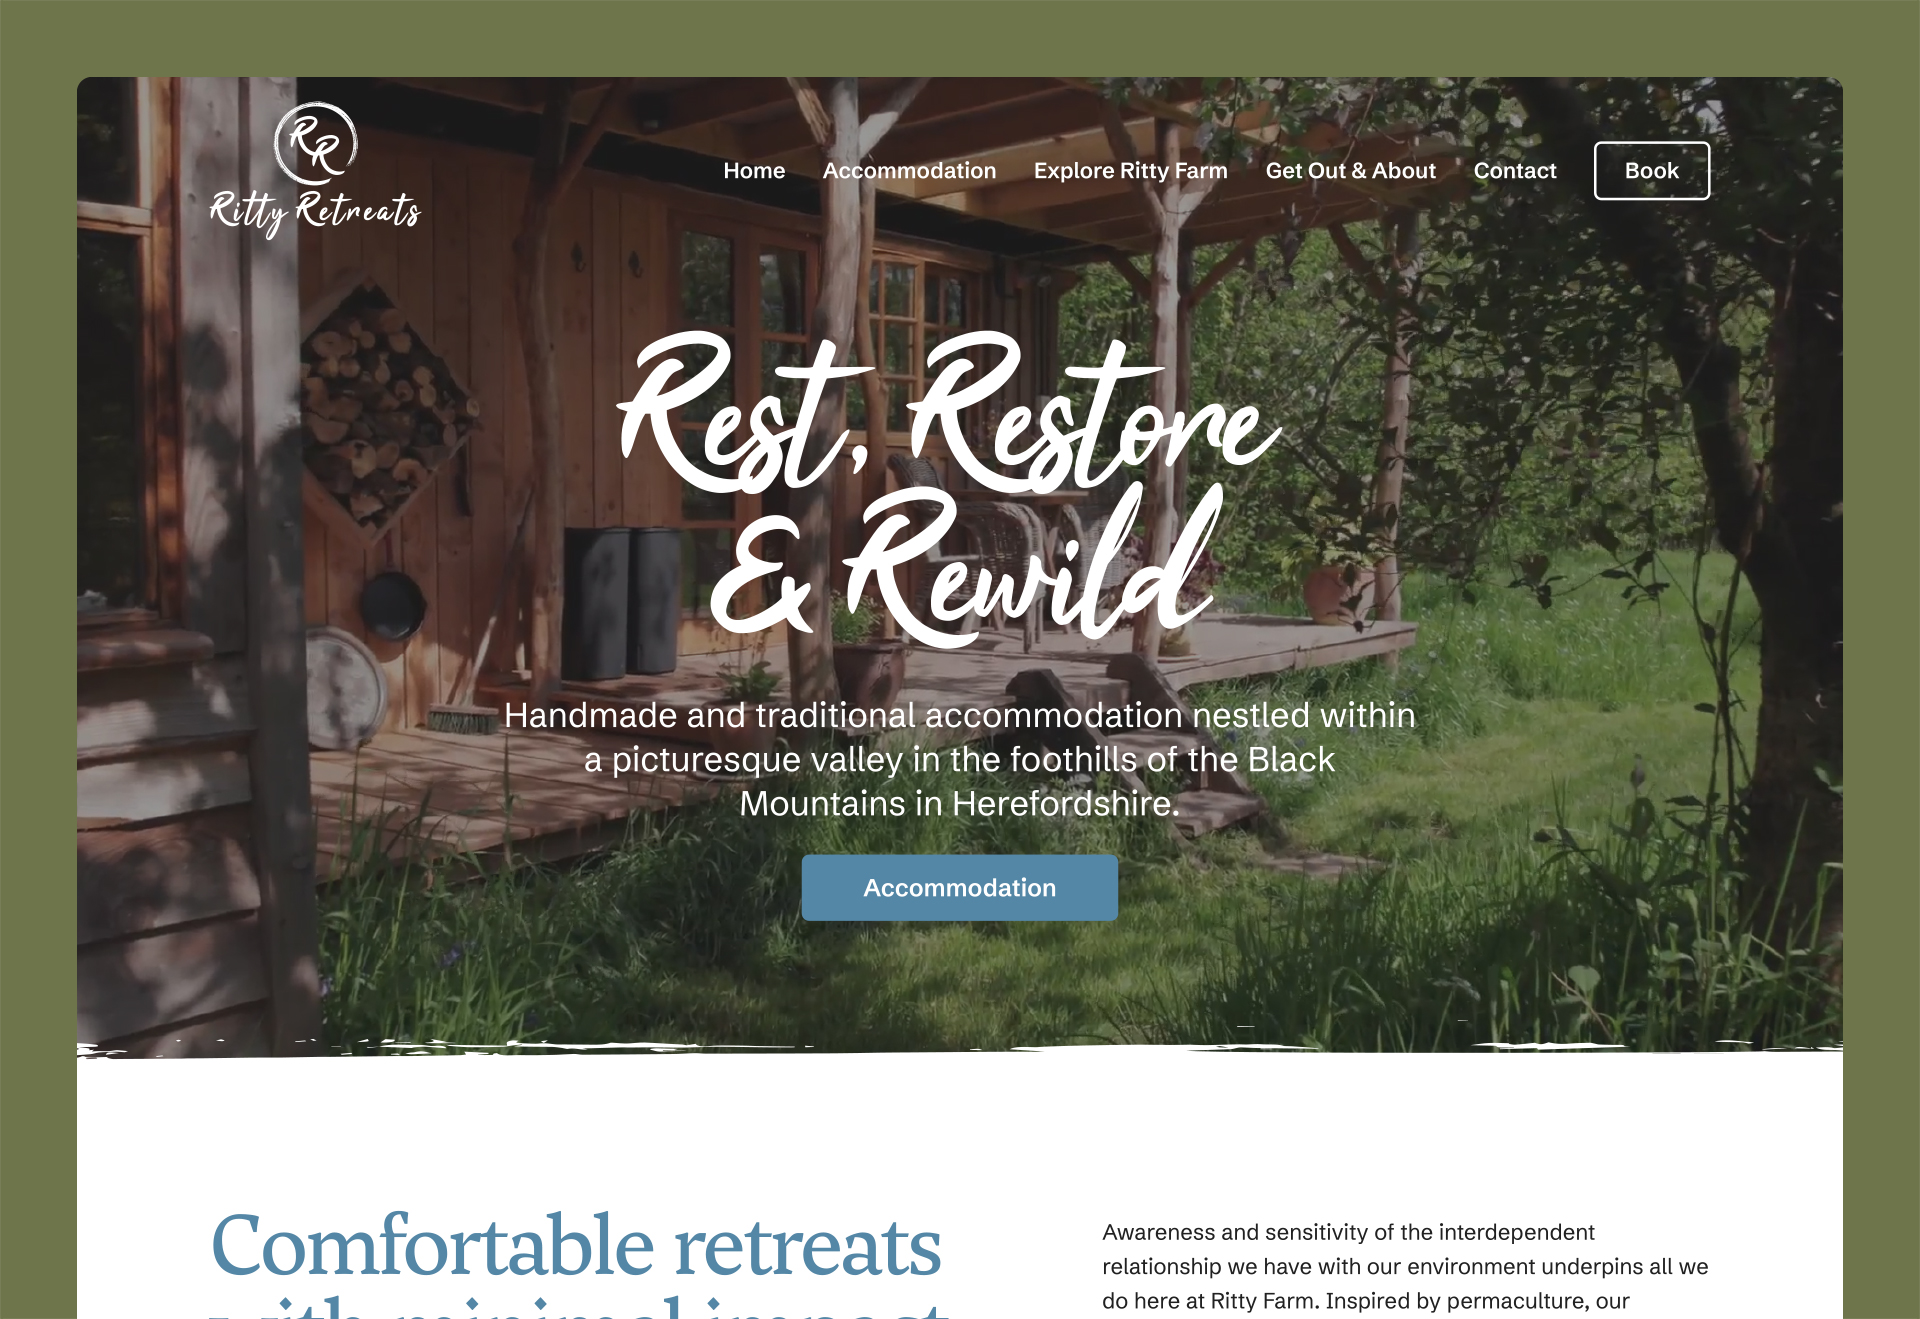
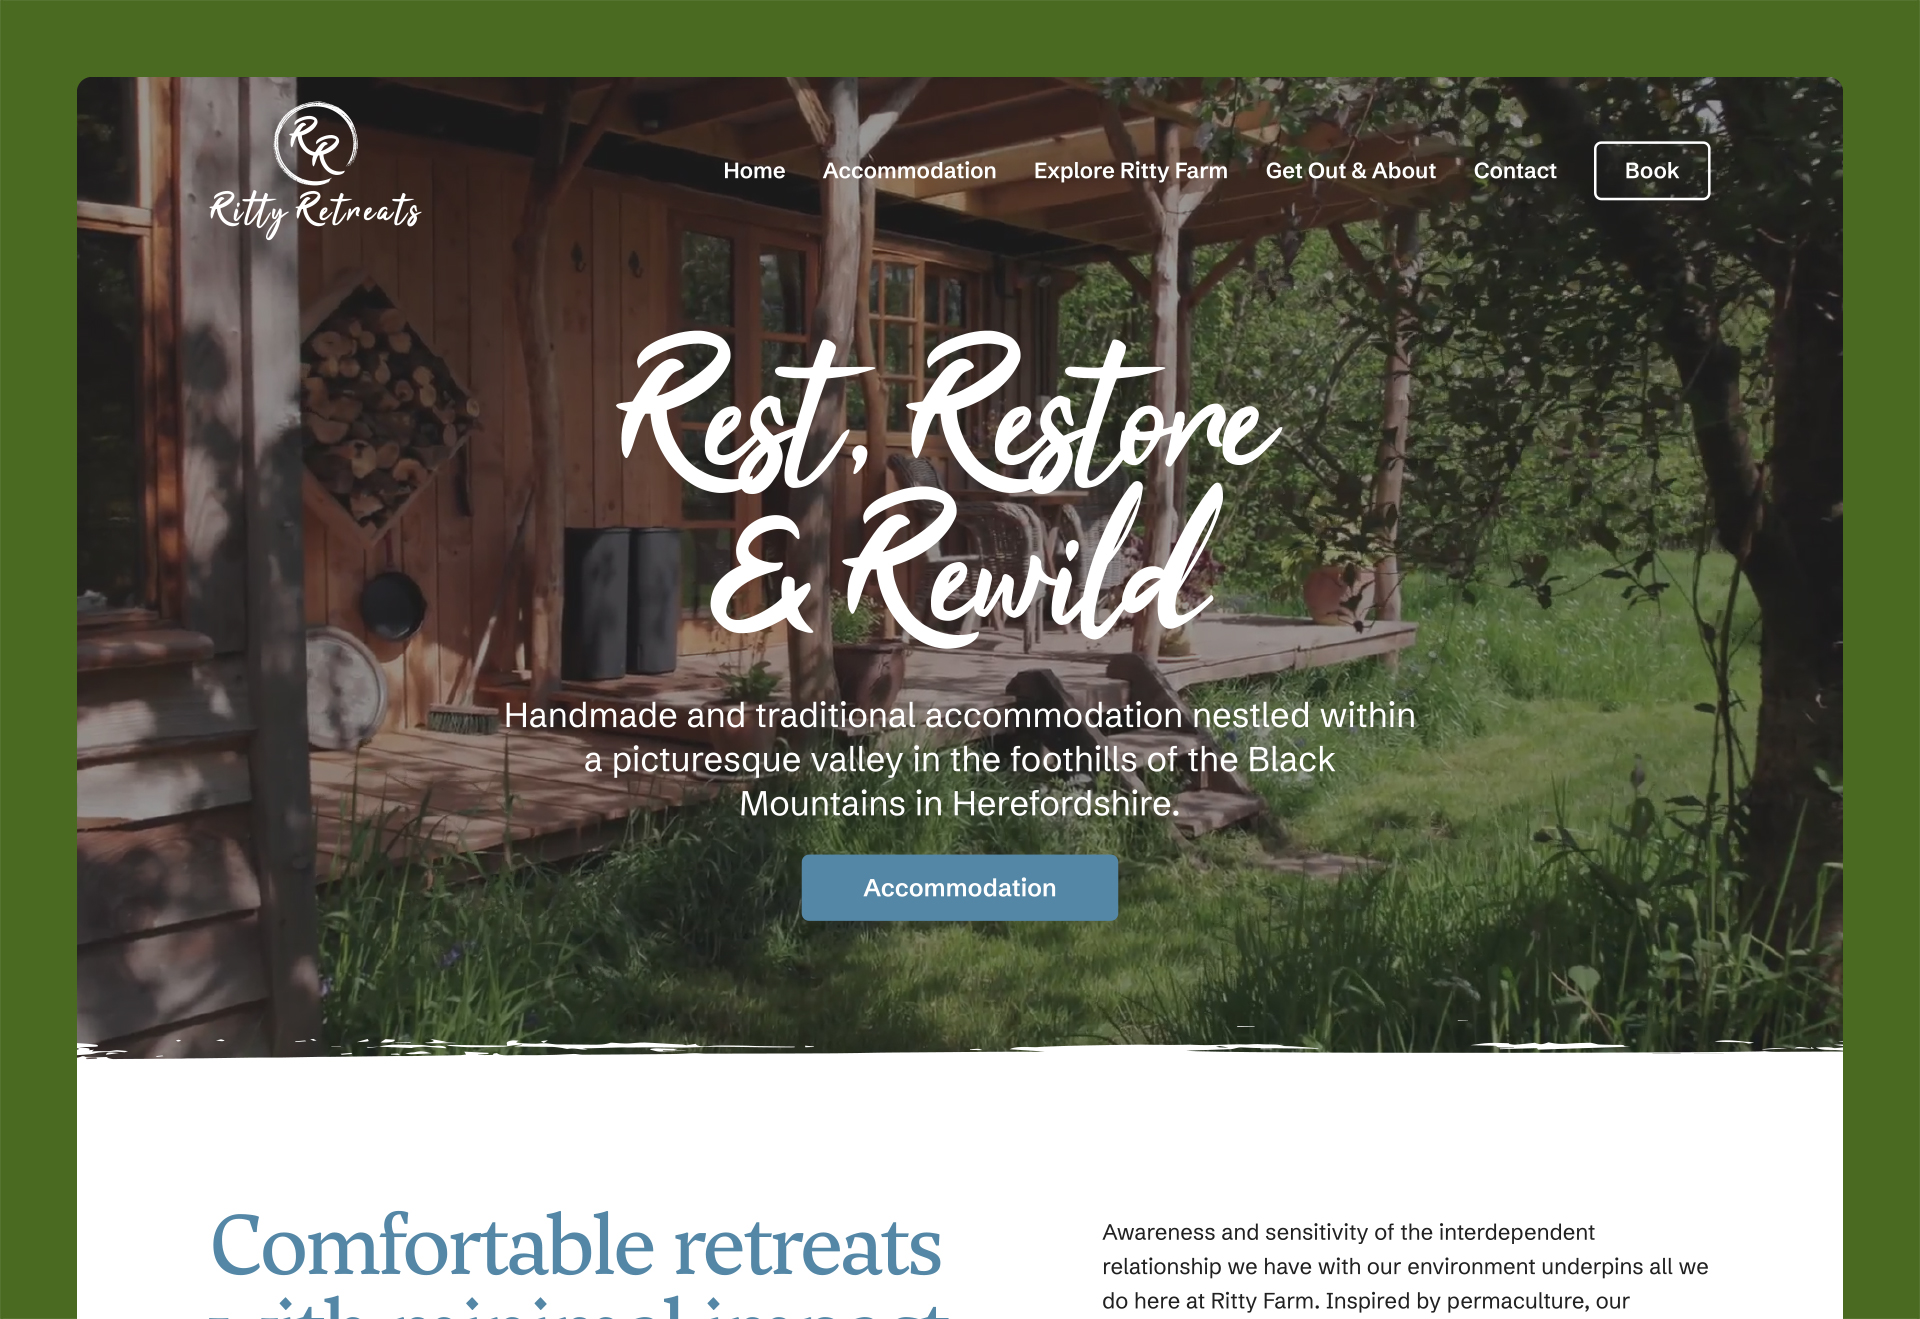
changed ritty bg colour

Changed region(s): [[0.0, 0.0, 1.0, 1.0]]

diff --git a/src/work/items/ritty-retreats.md b/src/work/items/ritty-retreats.md
@@ -35,7 +35,7 @@ projects:
   - type: imagefull
     image: /uploads/rr-home.jpg
     alt: ritty homepage
-    background: 6e754b
+    background: 4A6A21
   - type: text
     eyebrow: sdf
     content: "### I Infused the designs to echo the tranquil beauty that surrounds
@@ -46,5 +46,5 @@ projects:
     imagetwo: /uploads/rr-design-2.jpg
     altone: ritty design screen 1
     alttwo: ritty design screen 2
-    background: 6e754b
+    background: 4A6A21
 ---
